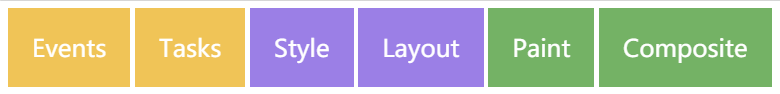
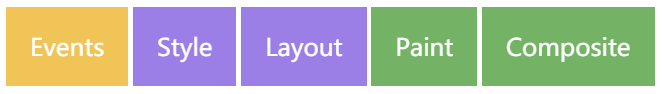
GitBook: [cn] one page and 4 assets modified

Changed region(s): [[0.0, 0.0638, 0.997, 0.9362], [0.0, 0.0, 1.0, 0.0213]]

diff --git a/zu-jian/xuan-ran-liu-cheng.md b/zu-jian/xuan-ran-liu-cheng.md
@@ -6,16 +6,35 @@ description: 介绍组件从更新到绘制到屏幕上所经历的流程。
 
 “渲染”就是将组件数据转变为像素数据，这个转变如同一条包含很多区域的单向管道，每个区域的处理结果都会影响到下个区域。我们可以将这个管道称为像素管道，它的结构如下图所示：
 
-![&#x50CF;&#x7D20;&#x7BA1;&#x9053;&#x7684;&#x5404;&#x4E2A;&#x533A;&#x57DF;](../.gitbook/assets/pixel-pipe%20%281%29.png)
+![&#x50CF;&#x7D20;&#x7BA1;&#x9053;&#x7684;&#x5404;&#x4E2A;&#x533A;&#x57DF;](../.gitbook/assets/pixel-pipe.png)
 
-* 事件：
-* 任务：
-* 样式计算：
-* 布局：
-* 绘制：
-* 合成：
+* **事件：**界面的更新是由事件驱动的，通常我们会在事件处理器中实现一些操作和视觉变化的效果。比如显示一个加载中动画、切换到另一个界面、或者往界面里添加一些内容等。
+* **样式计算：**此过程是根据匹配选择器（例如 `.button` 或 `.list .list-item`）计算出哪些组件应用哪些 CSS 规则的过程。从中知道规则之后，将应用规则并计算每个元素的最终样式。
+* **布局：** 在知道对一个组件应用哪些规则之后，LCUI 即可开始计算它要占据的空间大小及其在屏幕的位置。LCUI 所采用的类似于网页的布局模式意味着一个组件可能影响其他组件，例如更改组件的宽度会影响到子组件的位置和宽度以及组件树中各处的节点，因此布局过程是经常发生的。
+* **绘制：**绘制是填充像素的过程。它涉及绘出文本、颜色、图像、边框和阴影，基本上包括元素的每个可视部分。绘制一般是在多个表面（通常称为层）上完成的。
+* **合成：**由于页面的各部分可能被绘制到多层，由此它们需要按正确顺序绘制到屏幕上，以便正确渲染界面。对于与另一元素重叠的元素来说，这点特别重要，因为一个错误可能使一个元素错误地出现在另一个元素的上层。
 
 管道的每个部分都有机会产生卡顿，因此务必准确了解你的代码触发管道的哪些部分。
 
+![](../.gitbook/assets/pixel-pipe.png)
 
+不一定每帧都总是会经过管道每个部分的处理。在实现视觉变化时，管道针对指定帧的运行通常有三种方式：
+
+**1. 事件 &gt; 样式 &gt; 布局 &gt; 绘制 &gt; 合成**
+
+![](https://gblobscdn.gitbook.com/assets%2F-MJ04kFHYqrADYVyG9qI%2F-MTaJ0EBiSdYrmq6i3xw%2F-MTddiKDTZdSNnC3w8l5%2Fpixel-pipe.png?alt=media&token=2240c3ab-df38-4df2-a760-c5675f381666)
+
+如果你修改了组件的布局属性，即改变了组件的几何属性（例如宽度、高度、左侧或顶部位置等），那么 LCUI 将必须检查所有其它组件，然后对界面进行重新布局。任何受影响的部分都需要重新绘制，而且最终绘制的元素需进行合成。
+
+**2. 事件 &gt; 样式 &gt; 绘制 &gt; 合成**
+
+![](../.gitbook/assets/pixel-pipe-without-layout.png)
+
+如果你修改了组件的绘制属性，即不会影响界面布局的属性（例如背景图片、文字颜色或阴影等），则 LCUI 会跳过布局，但仍将执行绘制。
+
+**3. 事件 &gt; 样式**
+
+![](../.gitbook/assets/pixel-pipe-3.png)
+
+如果您更改组件的一个既不要布局也不要绘制的属性（例如：pointer-events），则 LCUI 将在计算完样式后跳过剩下的过程。
 
